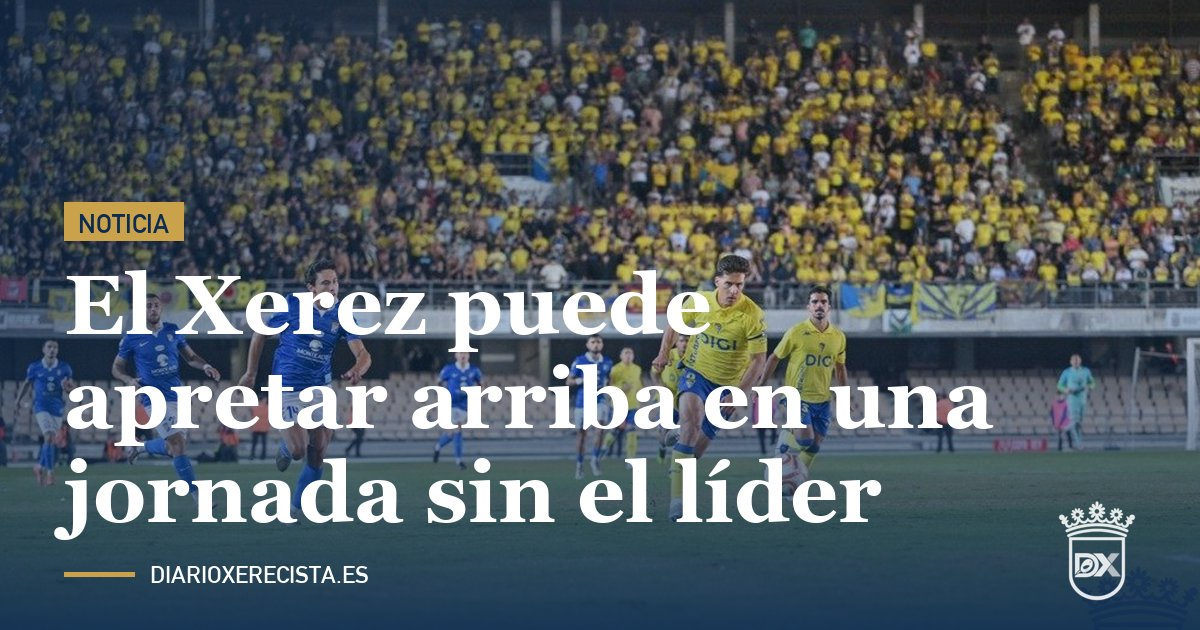
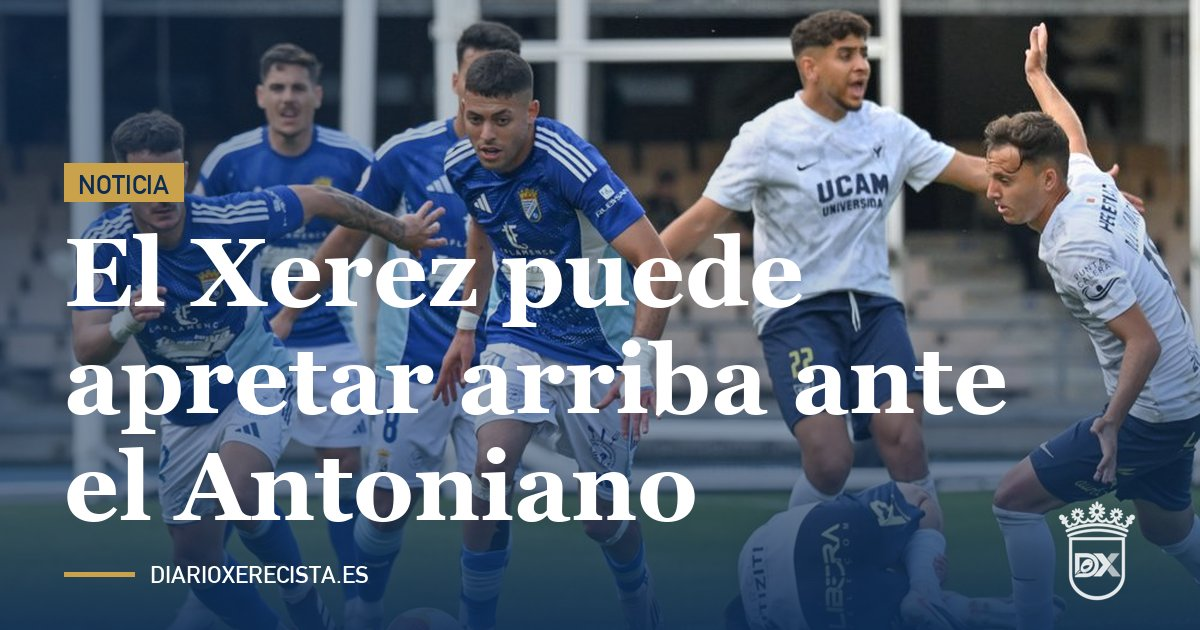
art132: nuevo titular (ante el Antoniano) y foto de liga; imágenes de redes rehechas

diff --git a/en/noticias/articulos/2026-11/xerez-can-turn-up-the-pressure-at-the-top-in-a-round-without-the-leaders/index.html b/en/noticias/articulos/2026-11/xerez-can-turn-up-the-pressure-at-the-top-in-a-round-without-the-leaders/index.html
@@ -3,7 +3,7 @@
 <head>
 <meta charset="UTF-8">
 <meta name="viewport" content="width=device-width, initial-scale=1.0">
-<title>Xerez can turn up the pressure at the top in a round without the leaders | Diario Xerecista</title>
+<title>Xerez can turn up the pressure at the top against Antoniano | Diario Xerecista</title>
 <meta name="description" content="With Recreativo de Huelva playing the Copa Federación final in Sestao and a Badajoz-Don Benito clash at the top, Xerez CD have a chance against Antoniano to close the gap on the front-runners and establish themselves in the top five.">
 <meta name="robots" content="index, follow, max-snippet:-1, max-image-preview:large">
 <link rel="canonical" href="https://www.diarioxerecista.es/en/noticias/articulos/2026-11/xerez-can-turn-up-the-pressure-at-the-top-in-a-round-without-the-leaders/">
@@ -13,7 +13,7 @@
 
 <meta property="og:type" content="article">
 <meta property="og:site_name" content="Diario Xerecista">
-<meta property="og:title" content="Xerez can turn up the pressure at the top in a round without the leaders">
+<meta property="og:title" content="Xerez can turn up the pressure at the top against Antoniano">
 <meta property="og:description" content="With Recreativo de Huelva playing the Copa Federación final in Sestao and a Badajoz-Don Benito clash at the top, Xerez CD have a chance against Antoniano to close the gap on the front-runners and establish themselves in the top five.">
 <meta property="og:url" content="https://www.diarioxerecista.es/en/noticias/articulos/2026-11/xerez-can-turn-up-the-pressure-at-the-top-in-a-round-without-the-leaders/">
 <meta property="og:image" content="https://www.diarioxerecista.es/fotos/redes/art132-en.jpg">
@@ -22,7 +22,7 @@
 <meta property="og:locale" content="en_GB">
 
 <meta name="twitter:card" content="summary_large_image">
-<meta name="twitter:title" content="Xerez can turn up the pressure at the top in a round without the leaders">
+<meta name="twitter:title" content="Xerez can turn up the pressure at the top against Antoniano">
 <meta name="twitter:description" content="With Recreativo de Huelva playing the Copa Federación final in Sestao and a Badajoz-Don Benito clash at the top, Xerez CD have a chance against Antoniano to close the gap on the front-runners and establish themselves in the top five.">
 <meta name="twitter:image" content="https://www.diarioxerecista.es/fotos/redes/art132-en.jpg">
 
@@ -35,10 +35,10 @@
 {
   "@context": "https://schema.org",
   "@type": "NewsArticle",
-  "headline": "Xerez can turn up the pressure at the top in a round without the leaders",
+  "headline": "Xerez can turn up the pressure at the top against Antoniano",
   "description": "With Recreativo de Huelva playing the Copa Federación final in Sestao and a Badajoz-Don Benito clash at the top, Xerez CD have a chance against Antoniano to close the gap on the front-runners and establish themselves in the top five.",
   "image": [
-    "https://www.diarioxerecista.es/fotos/publicadas/xerez-cadiz-copa-contra-amarilla.jpg"
+    "https://www.diarioxerecista.es/fotos/publicadas/Charaf-UCAM-Xerez.jpg"
   ],
   "datePublished": "2026-11-12",
   "dateModified": "2026-11-12",
@@ -78,10 +78,10 @@
 
   <main class="n-article">
     <span class="eyebrow">Segunda RFEF · Matchday 11</span>
-    <h1>Xerez can turn up the pressure at the top in a round without the leaders</h1>
+    <h1>Xerez can turn up the pressure at the top against Antoniano</h1>
 
     <div class="n-photo">
-      <img src="../../../../../fotos/publicadas/xerez-cadiz-copa-contra-amarilla.jpg" alt="Xerez CD players in a match this season" loading="lazy">
+      <img src="../../../../../fotos/publicadas/Charaf-UCAM-Xerez.jpg" alt="Xerez CD players in a league match" loading="lazy">
       <span class="n-credit">Photo: Diario Xerecista</span>
     </div>
 
@@ -107,7 +107,7 @@
 
     <div class="n-meta-row">
       <span class="byline">Newsroom — 12 November 2026</span>
-      <a href="https://x.com/intent/tweet?text=Xerez%20can%20turn%20up%20the%20pressure%20at%20the%20top%20in%20a%20round%20without%20the%20leaders%0A%0Ahttps%3A%2F%2Fwww.diarioxerecista.es%2Fen%2Fnoticias%2Farticulos%2F2026-11%2Fxerez-can-turn-up-the-pressure-at-the-top-in-a-round-without-the-leaders%2F%0A%0A%23XerezCD" target="_blank" rel="noopener" class="share-x-btn">Share on 𝕏</a>
+      <a href="https://x.com/intent/tweet?text=Xerez%20can%20turn%20up%20the%20pressure%20at%20the%20top%20against%20Antoniano%0A%0Ahttps%3A%2F%2Fwww.diarioxerecista.es%2Fen%2Fnoticias%2Farticulos%2F2026-11%2Fxerez-can-turn-up-the-pressure-at-the-top-in-a-round-without-the-leaders%2F%0A%0A%23XerezCD" target="_blank" rel="noopener" class="share-x-btn">Share on 𝕏</a>
     </div>
 
     <a class="back-link" href="../../../../../noticias/articulos/2026-11/el-xerez-puede-apretar-arriba-en-una-jornada-sin-el-lider/" style="display:block;margin-bottom:10px;">🇪🇸 Leer en español</a>

diff --git a/noticias/articulos/2026-11/el-xerez-puede-apretar-arriba-en-una-jornada-sin-el-lider/index.html b/noticias/articulos/2026-11/el-xerez-puede-apretar-arriba-en-una-jornada-sin-el-lider/index.html
@@ -3,7 +3,7 @@
 <head>
 <meta charset="UTF-8">
 <meta name="viewport" content="width=device-width, initial-scale=1.0">
-<title>El Xerez puede apretar arriba en una jornada sin el líder | Diario Xerecista</title>
+<title>El Xerez puede apretar arriba ante el Antoniano | Diario Xerecista</title>
 <meta name="description" content="Con el Recreativo de Huelva disputando en Sestao la final de la Copa Federación y un Badajoz-Don Benito en la zona alta, el Xerez CD tiene ante el Antoniano la ocasión de recortar distancias con los de arriba y asentarse entre los cinco primeros.">
 <meta name="robots" content="index, follow, max-snippet:-1, max-image-preview:large">
 <link rel="canonical" href="https://www.diarioxerecista.es/noticias/articulos/2026-11/el-xerez-puede-apretar-arriba-en-una-jornada-sin-el-lider/">
@@ -13,7 +13,7 @@
 
 <meta property="og:type" content="article">
 <meta property="og:site_name" content="Diario Xerecista">
-<meta property="og:title" content="El Xerez puede apretar arriba en una jornada sin el líder">
+<meta property="og:title" content="El Xerez puede apretar arriba ante el Antoniano">
 <meta property="og:description" content="Con el Recreativo de Huelva disputando en Sestao la final de la Copa Federación y un Badajoz-Don Benito en la zona alta, el Xerez CD tiene ante el Antoniano la ocasión de recortar distancias con los de arriba y asentarse entre los cinco primeros.">
 <meta property="og:url" content="https://www.diarioxerecista.es/noticias/articulos/2026-11/el-xerez-puede-apretar-arriba-en-una-jornada-sin-el-lider/">
 <meta property="og:image" content="https://www.diarioxerecista.es/fotos/redes/art132-es.jpg">
@@ -22,7 +22,7 @@
 <meta property="og:locale" content="es_ES">
 
 <meta name="twitter:card" content="summary_large_image">
-<meta name="twitter:title" content="El Xerez puede apretar arriba en una jornada sin el líder">
+<meta name="twitter:title" content="El Xerez puede apretar arriba ante el Antoniano">
 <meta name="twitter:description" content="Con el Recreativo de Huelva disputando en Sestao la final de la Copa Federación y un Badajoz-Don Benito en la zona alta, el Xerez CD tiene ante el Antoniano la ocasión de recortar distancias con los de arriba y asentarse entre los cinco primeros.">
 <meta name="twitter:image" content="https://www.diarioxerecista.es/fotos/redes/art132-es.jpg">
 
@@ -35,10 +35,10 @@
 {
   "@context": "https://schema.org",
   "@type": "NewsArticle",
-  "headline": "El Xerez puede apretar arriba en una jornada sin el líder",
+  "headline": "El Xerez puede apretar arriba ante el Antoniano",
   "description": "Con el Recreativo de Huelva disputando en Sestao la final de la Copa Federación y un Badajoz-Don Benito en la zona alta, el Xerez CD tiene ante el Antoniano la ocasión de recortar distancias con los de arriba y asentarse entre los cinco primeros.",
   "image": [
-    "https://www.diarioxerecista.es/fotos/publicadas/xerez-cadiz-copa-contra-amarilla.jpg"
+    "https://www.diarioxerecista.es/fotos/publicadas/Charaf-UCAM-Xerez.jpg"
   ],
   "datePublished": "2026-11-12",
   "dateModified": "2026-11-12",
@@ -78,10 +78,10 @@
 
   <main class="n-article">
     <span class="eyebrow">Segunda RFEF · Jornada 11</span>
-    <h1>El Xerez puede apretar arriba en una jornada sin el líder</h1>
+    <h1>El Xerez puede apretar arriba ante el Antoniano</h1>
 
     <div class="n-photo">
-      <img src="../../../../fotos/publicadas/xerez-cadiz-copa-contra-amarilla.jpg" alt="Jugadores del Xerez CD en un partido de esta temporada" loading="lazy">
+      <img src="../../../../fotos/publicadas/Charaf-UCAM-Xerez.jpg" alt="Jugadores del Xerez CD en un partido de liga" loading="lazy">
       <span class="n-credit">Foto: Diario Xerecista</span>
     </div>
 
@@ -107,7 +107,7 @@
 
     <div class="n-meta-row">
       <span class="byline">Redacción — 12 de noviembre de 2026</span>
-      <a href="https://x.com/intent/tweet?text=El%20Xerez%20puede%20apretar%20arriba%20en%20una%20jornada%20sin%20el%20l%C3%ADder%0A%0Ahttps%3A%2F%2Fwww.diarioxerecista.es%2Fnoticias%2Farticulos%2F2026-11%2Fel-xerez-puede-apretar-arriba-en-una-jornada-sin-el-lider%2F%0A%0A%23XerezCD" target="_blank" rel="noopener" class="share-x-btn">Compartir en 𝕏</a>
+      <a href="https://x.com/intent/tweet?text=El%20Xerez%20puede%20apretar%20arriba%20ante%20el%20Antoniano%0A%0Ahttps%3A%2F%2Fwww.diarioxerecista.es%2Fnoticias%2Farticulos%2F2026-11%2Fel-xerez-puede-apretar-arriba-en-una-jornada-sin-el-lider%2F%0A%0A%23XerezCD" target="_blank" rel="noopener" class="share-x-btn">Compartir en 𝕏</a>
     </div>
 
     <a class="back-link" href="../../../../en/noticias/articulos/2026-11/xerez-can-turn-up-the-pressure-at-the-top-in-a-round-without-the-leaders/" style="display:block;margin-bottom:10px;">🇬🇧 Read in English</a>

diff --git a/index.html b/index.html
@@ -1540,7 +1540,7 @@
     <div class="news-grid" id="loUltimoGrid">
       <!-- generado dinámicamente por renderPortada(); hasta que carga se ven estos titulares, que también lee Google -->
       <!-- TITULARES-INICIO (no editar a mano: python3 -I scripts/titulares_portada.py) -->
-      <article class="card"><span class="eyebrow">Segunda RFEF · Jornada 11</span><h4><a class="tit-link" href="/noticias/articulos/2026-11/el-xerez-puede-apretar-arriba-en-una-jornada-sin-el-lider/">El Xerez puede apretar arriba en una jornada sin el líder</a></h4><p>Con el Recreativo de Huelva disputando en Sestao la final de la Copa Federación y un Badajoz-Don Benito en la zona alta, el Xerez CD tiene ante el Antoniano la ocasión de recortar distancias con los de arriba y asentarse entre los cinco primeros.</p></article>
+      <article class="card"><span class="eyebrow">Segunda RFEF · Jornada 11</span><h4><a class="tit-link" href="/noticias/articulos/2026-11/el-xerez-puede-apretar-arriba-en-una-jornada-sin-el-lider/">El Xerez puede apretar arriba ante el Antoniano</a></h4><p>Con el Recreativo de Huelva disputando en Sestao la final de la Copa Federación y un Badajoz-Don Benito en la zona alta, el Xerez CD tiene ante el Antoniano la ocasión de recortar distancias con los de arriba y asentarse entre los cinco primeros.</p></article>
       <article class="card"><span class="eyebrow">Segunda RFEF · Jornada 13</span><h4><a class="tit-link" href="/noticias/articulos/2026-11/el-xerez-linares-el-domingo-29-de-noviembre-a-las-18-00-en-chapin/">El Xerez-Linares, el domingo 29 de noviembre a las 18:00 en Chapín</a></h4><p>El Xerez CD ya conoce el horario de su partido de la jornada 13 de la Segunda RFEF, Grupo IV: recibirá al Linares Deportivo el domingo 29 de noviembre a las 18:00 en el Estadio Municipal de Chapín.</p></article>
       <article class="card"><span class="eyebrow">Opinión · Análisis</span><h4><a class="tit-link" href="/noticias/articulos/2026-11/el-otro-xerez-que-manda/">El otro Xerez que manda</a></h4><p>Mientras el equipo de fútbol pelea por el play off en Segunda RFEF, las jugadoras del Xerez CD Baloncesto lideran la Liga Femenina 2 en su primera temporada en la categoría. Merecen que el xerecismo las mire.</p></article>
       <article class="card"><span class="eyebrow">Segunda RFEF · Jornada 11</span><h4><a class="tit-link" href="/noticias/articulos/2026-11/el-antoniano-se-le-atraganta-al-xerez-tres-victorias-en-los-cuatro-ultimos-duelos/">El Antoniano se le atraganta al Xerez: tres victorias en los cuatro últimos duelos</a></h4><p>El Xerez CD recibe el domingo 15 de noviembre a las 18:00 en el Pedro Garrido al Atlético Antoniano. Es un rival que le ha ganado tres de los cuatro últimos enfrentamientos, aunque esta vez llega en la zona baja de la tabla.</p></article>
